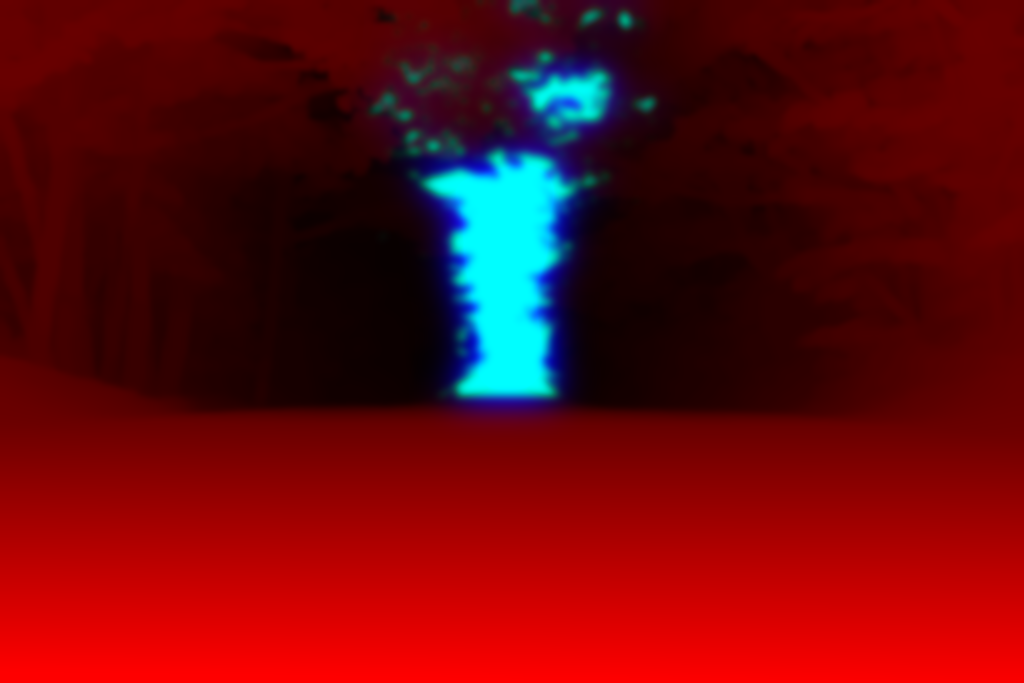
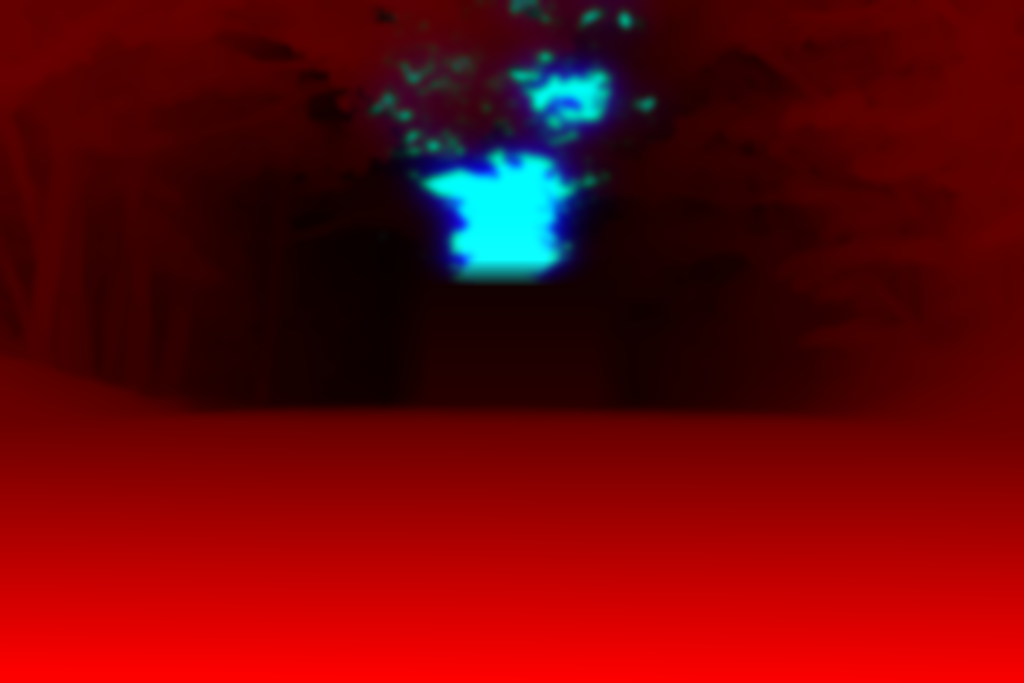
Vorschau Landschaften 3: Herbstallee - ferne Strasse scharf, keine Doppel-Linien
Claude-Session: https://claude.ai/code/session_01AC3hVdMMJayFA5k58UgPiU

Changed region(s): [[0.4062, 0.369, 0.5625, 0.6457]]

diff --git a/vorschau-landschaften-3/index.html b/vorschau-landschaften-3/index.html
@@ -6545,7 +6545,7 @@ window.VTX=function(update,done,v){if(!document.startViewTransition)return false
 var MODES=[['herbst','Herbstallee','Laub fällt in 3D, Maus = Wind'],['wein','Weinberg','Scrollen = der Tag vergeht'],['island','Hochland','Scrollen = Polarlicht-Nacht']];
 /* je Szene: ty = Kamera schwenkt beim Scrollen, Fokus (Bild-x, Bild-y von unten), Spiegeln, Fokus-Ebene, Wolken (Stärke, Tempo), Wasser (Weg, Tempo), Sonne (x,y von unten; z = Stärke),
    fg = Dunst, sn/sz/sc = Teilchen (Stärke/Größe/Farbe), ld = Laub mit 3D-Verdeckung + Maus-Wind, df = Kino-Schärfe, gr = Lichtstrahlen, cs = Wolkenschatten, dy = Tageslauf, nt = Polarlicht-Nacht */
-var CFG={herbst:{ty:[0,-.04],fxm:.50,fx:.50,fy:.55,fl:0,fp:.20,am:.030,sp:.012,wf:[0,0],sun:[.50,.66,.20],fg:1.6,sn:.95,sz:2.2,sc:[.92,.46,.12],ld:1,df:1,gr:.30,cs:0,dy:0,nt:0},
+var CFG={herbst:{ty:[0,-.04],fxm:.50,fx:.50,fy:.55,fl:0,fp:.20,am:.030,sp:.012,wf:[0,0],sun:[.50,.66,.20],fg:1.6,sn:.95,sz:2.2,sc:[.92,.46,.12],ld:1,df:-1,gr:.30,cs:0,dy:0,nt:0},
  wein:{ty:[.02,-.05],fxm:.70,fx:.52,fy:.50,fl:0,fp:.25,am:.060,sp:.016,wf:[0,0],sun:[.62,.90,.18],fg:1,sn:0,ld:0,df:1,gr:0,cs:.42,dy:1,nt:0},
  island:{ty:[.02,-.04],fxm:.62,fx:.50,fy:.50,fl:1,fp:.30,am:.055,sp:.014,wf:[0,0],sun:[.40,.85,.10],fg:1.2,sn:0,ld:0,df:1,gr:0,cs:.32,dy:0,nt:1}};
 var BASE=(window.HG12_BASE||'../img/hg12/');
@@ -6591,8 +6591,8 @@ void main(){
  float ok=(1.-smoothstep(.06,.14,max(D(s1).r,D(s2).r)))*(1.-smoothstep(.06,.14,d));
  ok*=smoothstep(.55,.95,min(min(D(s1).g,D(s2).g),sky));
  vec3 base=P(q);
- if(uDf>0.){vec2 pm=c+(uM-.5)*s;float fd=(D(pm).r*2.+D(pm+vec2(.02,0)).r+D(pm-vec2(.02,0)).r+D(pm+vec2(0,.02)).r+D(pm-vec2(0,.02)).r)/6.;
-  float rb=uDf*.0024*smoothstep(.10,.55,abs(d-fd))*(1.-sky);
+ if(uDf!=0.){vec2 pm=c+(uM-.5)*s;float fd=(D(pm).r*2.+D(pm+vec2(.02,0)).r+D(pm-vec2(.02,0)).r+D(pm+vec2(0,.02)).r+D(pm-vec2(0,.02)).r)/6.;
+  float rb=abs(uDf)*.0024*smoothstep(.10,.55,abs(d-fd))*(1.-sky);if(uDf<0.)rb*=smoothstep(fd,fd+.08,d);
   if(rb>.0002){vec3 acc=base;float ga=2.39996;for(int i=0;i<10;i++){float fi=float(i)+.5;float rr2=sqrt(fi/10.)*rb;vec2 off=vec2(cos(fi*ga),sin(fi*ga))*rr2*vec2(1.,iA);acc+=P(q+off);}base=acc/11.;}}
  vec3 col=mix(base,mix(P(s1),P(s2),1.-wv),ok);
  /* Wolkenschatten: ziehen mit dem Wind übers Gelände (nicht im Himmel) */
